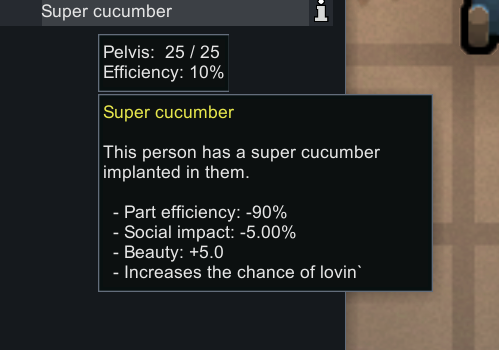
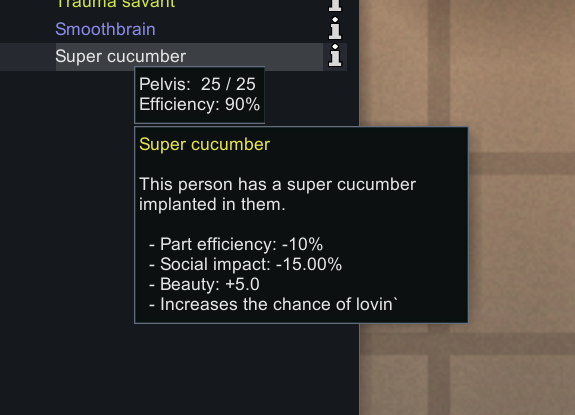
Tweak implant

diff --git a/1.5/Source/Pointless_Surgeries/Properties/AssemblyInfo.cs b/1.5/Source/Pointless_Surgeries/Properties/AssemblyInfo.cs
@@ -31,5 +31,5 @@ using System.Runtime.InteropServices;
 // You can specify all the values or you can default the Build and Revision Numbers
 // by using the '*' as shown below:
 // [assembly: AssemblyVersion("1.0.*")]
-[assembly: AssemblyVersion("1.0.0.0")]
-[assembly: AssemblyFileVersion("1.0.0.0")]
+[assembly: AssemblyVersion("1.0.1.0")]
+[assembly: AssemblyFileVersion("1.0.1.0")]
